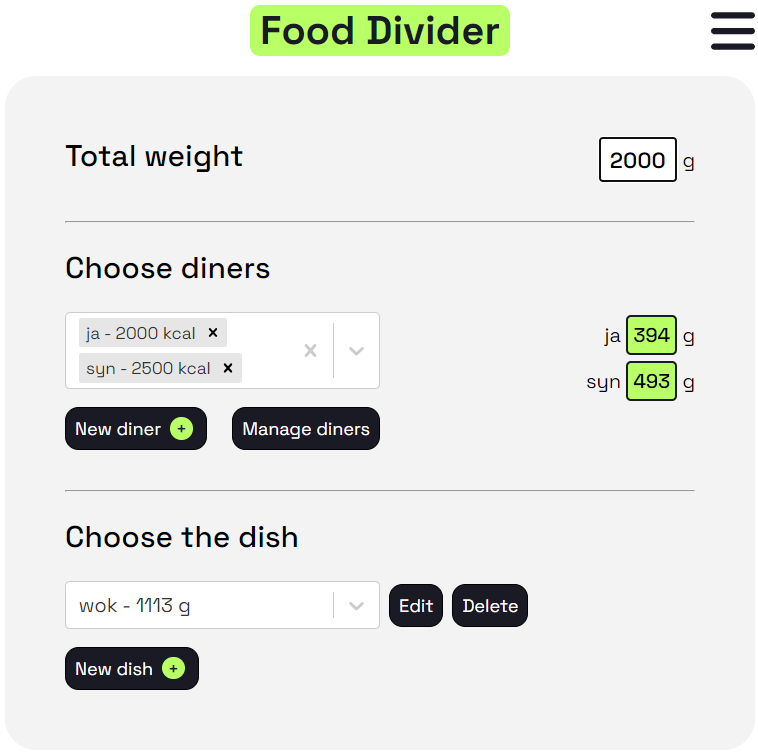
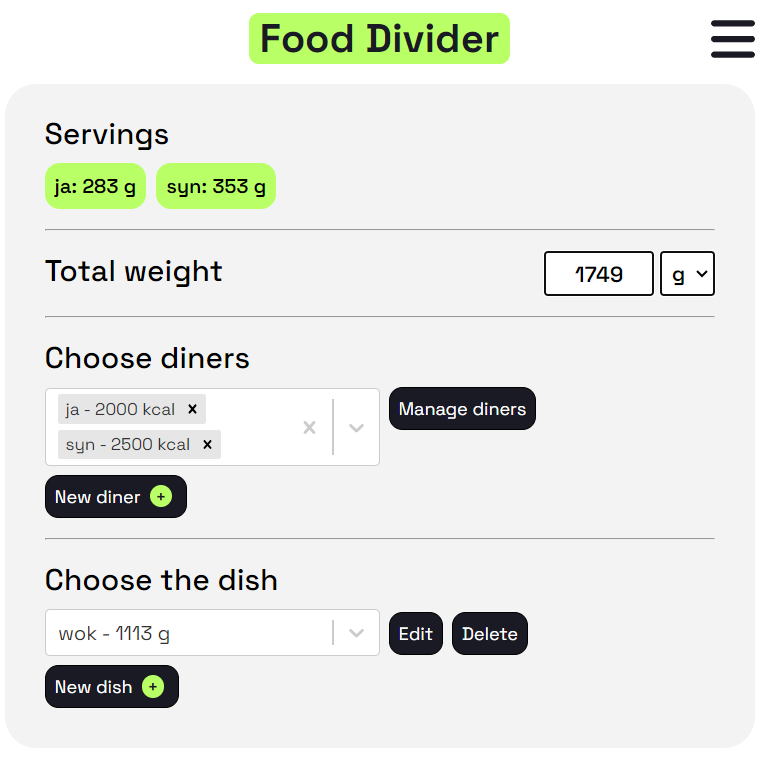
ManageDinerForm as seperate component, readme update

diff --git a/frontend/src/components/DinersModals/ManageDinersModal.js b/frontend/src/components/DinersModals/ManageDinersModal.js
@@ -1,57 +1,10 @@
-import { useState } from "react";
-// import axios from "axios";
+import ManageDinerForm from "./ManageDinerForm";
 
 const ManageDinersModal = (props) => {
-  const [formData, setFormData] = useState({
-    name: "",
-    calories: "",
-  });
-
-  const handleInputChange = (e, index) => {
-    const target = e.target;
-    const name = target.name;
-
-    setFormData({
-      ...formData,
-      [name]: target.value,
-    });
-  };
-
-  const editDiner = (e) => {
-    console.log(e.target.key);
-    //   console.log("edytuje zjadacza o id:");
-    //   axios.post("http://localhost:3005/diners/edit/" + e.target.key, formData).then(() => {
-    //      console.log("zedytuj zjadacza jeszcze we froncie")
-    //   });
-  };
-
-  const enableEdit = (e) => {
-    console.log(e.target);
-  };
-
   return (
     <section className="manageDiners">
-      {props.diners.map((diner, index) => {
-        return (
-          <form key={diner._id} noValidate onSubmit={editDiner}>
-            <div className="outerInputsWrapper">
-              <div className="inputWrapper">
-                <label htmlFor="name">Name:</label>
-                <input type="text" name="name" defaultValue={diner.name} onChange={handleInputChange} />
-              </div>
-              <div className="inputWrapper">
-                <label htmlFor="calories">Calories:</label>
-                <input type="number" name="calories" defaultValue={diner.calories} onChange={handleInputChange} />
-              </div>
-            </div>
-            <button type="button" className="btn" onClick={enableEdit}>
-              Edit
-            </button>
-            <button type="submit" className="btn">
-              Save
-            </button>
-          </form>
-        );
+      {props.diners.map((diner) => {
+        return <ManageDinerForm diner={diner} key={diner._id} setDiners={props.setDiners} />;
       })}
     </section>
   );

diff --git a/frontend/src/components/DinersModals/ManageDinerForm.js b/frontend/src/components/DinersModals/ManageDinerForm.js
@@ -1,0 +1,57 @@
+import { useState } from "react";
+import axios from "axios";
+
+const ManageDinerForm = (props) => {
+  const [formData, setFormData] = useState({
+    name: props.diner.name,
+    calories: props.diner.calories,
+  });
+
+  const handleInputChange = (e) => {
+    const target = e.target;
+    const name = target.name;
+
+    setFormData({
+      ...formData,
+      [name]: target.value,
+    });
+  };
+  const editAndSaveDiner = (e) => {
+    e.preventDefault();
+    axios
+      .post("http://localhost:3005/diners/edit/" + props.diner._id, formData)
+      .then(() => {
+        //zedytowac we froncie
+      })
+      .catch((error) => console.error(error));
+  };
+
+  const deleteDiner = () => {
+    axios.delete("http://localhost:3005/diners/delete/" + props.diner._id).then(() => {
+      props.setDiners(props.diners.filter((diner) => diner._id !== props.diner._id));
+    });
+  };
+
+  return (
+    <form key={props.diner._id} noValidate onSubmit={editAndSaveDiner}>
+      <div className="outerInputsWrapper">
+        <div className="inputWrapper">
+          <label htmlFor="name">Name:</label>
+          <input type="text" name="name" defaultValue={props.diner.name} onChange={handleInputChange} />
+        </div>
+        <div className="inputWrapper">
+          <label htmlFor="calories">Calories:</label>
+          <input type="number" name="calories" defaultValue={props.diner.calories} onChange={handleInputChange} />
+        </div>
+      </div>
+      <button type="submit" className="btn">
+        Save
+      </button>
+      <button type="button" className="btn" onClick={deleteDiner}>
+        Delete
+      </button>
+    </form>
+  );
+};
+
+export default ManageDinerForm;

diff --git a/frontend/src/components/TotalWeight.css b/frontend/src/components/TotalWeight.css
@@ -4,20 +4,22 @@
   width: 100%;
 }
 
-.totalWeightSection .totalWeightWrapper {
-  text-align: right;
-}
-
-.totalWeightSection .totalWeightWrapper .netWeightError {
+.totalWeightSection .netWeightError {
   color: red;
   font-size: 0.75em;
-  text-align: right;
   margin-bottom: 0;
 }
 
-.totalWeightSection .totalWeightWrapper input.totalWeight {
+.totalWeightSection .valueWrapper {
+  height: 2.25em;
+  display: flex;
+  align-items: center;
+}
+
+.totalWeightSection .valueWrapper input.totalWeight {
   padding: 0.2em;
   margin-right: 0.25em;
+  height: 100%;
   max-width: 5em;
   font-weight: 600;
   font-size: 1.1em;
@@ -27,9 +29,10 @@
   outline: -webkit-focus-ring-color auto 1px;
 }
 
-.totalWeightSection .totalWeightWrapper select.unit {
+.totalWeightSection .valueWrapper select.unit {
   display: inline-block;
-  padding: 0.2em;
+  text-align: center;
+  height: 100%;
   font-size: 1.05em;
   font-weight: 600;
   border-radius: 2px;

diff --git a/frontend/src/components/TotalWeight.js b/frontend/src/components/TotalWeight.js
@@ -20,7 +20,12 @@ const TotalWeight = (props) => {
       <label htmlFor="totalWeight" className="sectionTitle">
         Total weight
       </label>
-      <div className="totalWeightWrapper">
+      {props.netWeight < 0 && (
+        <p className="netWeightError" title="Change the dish or enter a higher total weight">
+          Net weight is below 0
+        </p>
+      )}
+      <div className="valueWrapper">
         <input
           className="totalWeight"
           type="number"
@@ -34,11 +39,6 @@ const TotalWeight = (props) => {
           <option value="g">g</option>
           <option value="oz">oz</option>
         </select>
-        {props.netWeight < 0 && (
-          <p className="netWeightError" title="Change the dish or enter a higher total weight">
-            Net weight is below 0
-          </p>
-        )}
       </div>
     </section>
   );

diff --git a/frontend/src/components/Diners.js b/frontend/src/components/Diners.js
@@ -66,14 +66,14 @@ const Diners = (props) => {
           }))}
           onChange={chooseDiners}
         />
-        <button className="btn manage" onClick={handleOpenModalManage} disabled>
+        <button className="btn manage" onClick={handleOpenModalManage}>
           Manage diners
         </button>
         <ReactModal className="modal" isOpen={showModalManage} contentLabel="manage diners form">
           <button className="closeModal" onClick={handleCloseModalManage}>
             x
           </button>
-          <ManageDinersModal diners={diners} />
+          <ManageDinersModal diners={diners} setDiners={setDiners} />
         </ReactModal>
         <button className="btn new" onClick={handleOpenModalNew}>
           New diner <span>+</span>

diff --git a/frontend/src/views/Home.js b/frontend/src/views/Home.js
@@ -29,7 +29,7 @@ const Home = (props) => {
         chosenDiners={chosenDiners}
       />
       <hr></hr>
-      <TotalWeight totalWeight={totalWeight} setTotalWeight={setTotalWeight} unit={unit} setUnit={setUnit} />
+      <TotalWeight totalWeight={totalWeight} setTotalWeight={setTotalWeight} netWeight={netWeight} unit={unit} setUnit={setUnit} />
       <hr></hr>
       <Diners chosenDish={chosenDish} setChosenDiners={setChosenDiners} chosenDiners={chosenDiners} />
       <hr></hr>

diff --git a/frontend/src/components/Servings.js b/frontend/src/components/Servings.js
@@ -33,8 +33,7 @@ const Servings = (props) => {
         }
         return (
           <div className="diner" key={"chosen" + diner.key}>
-            {diner.name}: {servingSize >= 0 ? servingSize : "_"}
-            {props.unit}
+            {diner.name}: {servingSize >= 0 ? servingSize : "_"} {props.unit}
           </div>
         );
       })}

diff --git a/frontend/src/components/Dishes.js b/frontend/src/components/Dishes.js
@@ -62,6 +62,8 @@ const Dishes = (props) => {
     }
   }, [props.chosenDish]);
 
+  console.log(props.unit);
+
   return (
     <section className="dishes">
       <h2 className="sectionTitle">Choose the dish</h2>

diff --git a/frontend/src/views/Home.css b/frontend/src/views/Home.css
@@ -1,7 +1,7 @@
 .home {
   background-color: var(--light);
   margin: 1rem auto;
-  padding: 3rem;
+  padding: 1.5rem 2rem 2rem;
   border-radius: 25px;
 }
 

diff --git a/README.md b/README.md
@@ -34,6 +34,6 @@ in progress
 
 ## To Do
 
-- frontend: weight units, ManageDinersModal - multiple forms, navigation, tooltips, ux refinement, rwd
+- frontend: tooltips, ux refinement, rwd
 - frontend-mobile
 - auth0 ?
